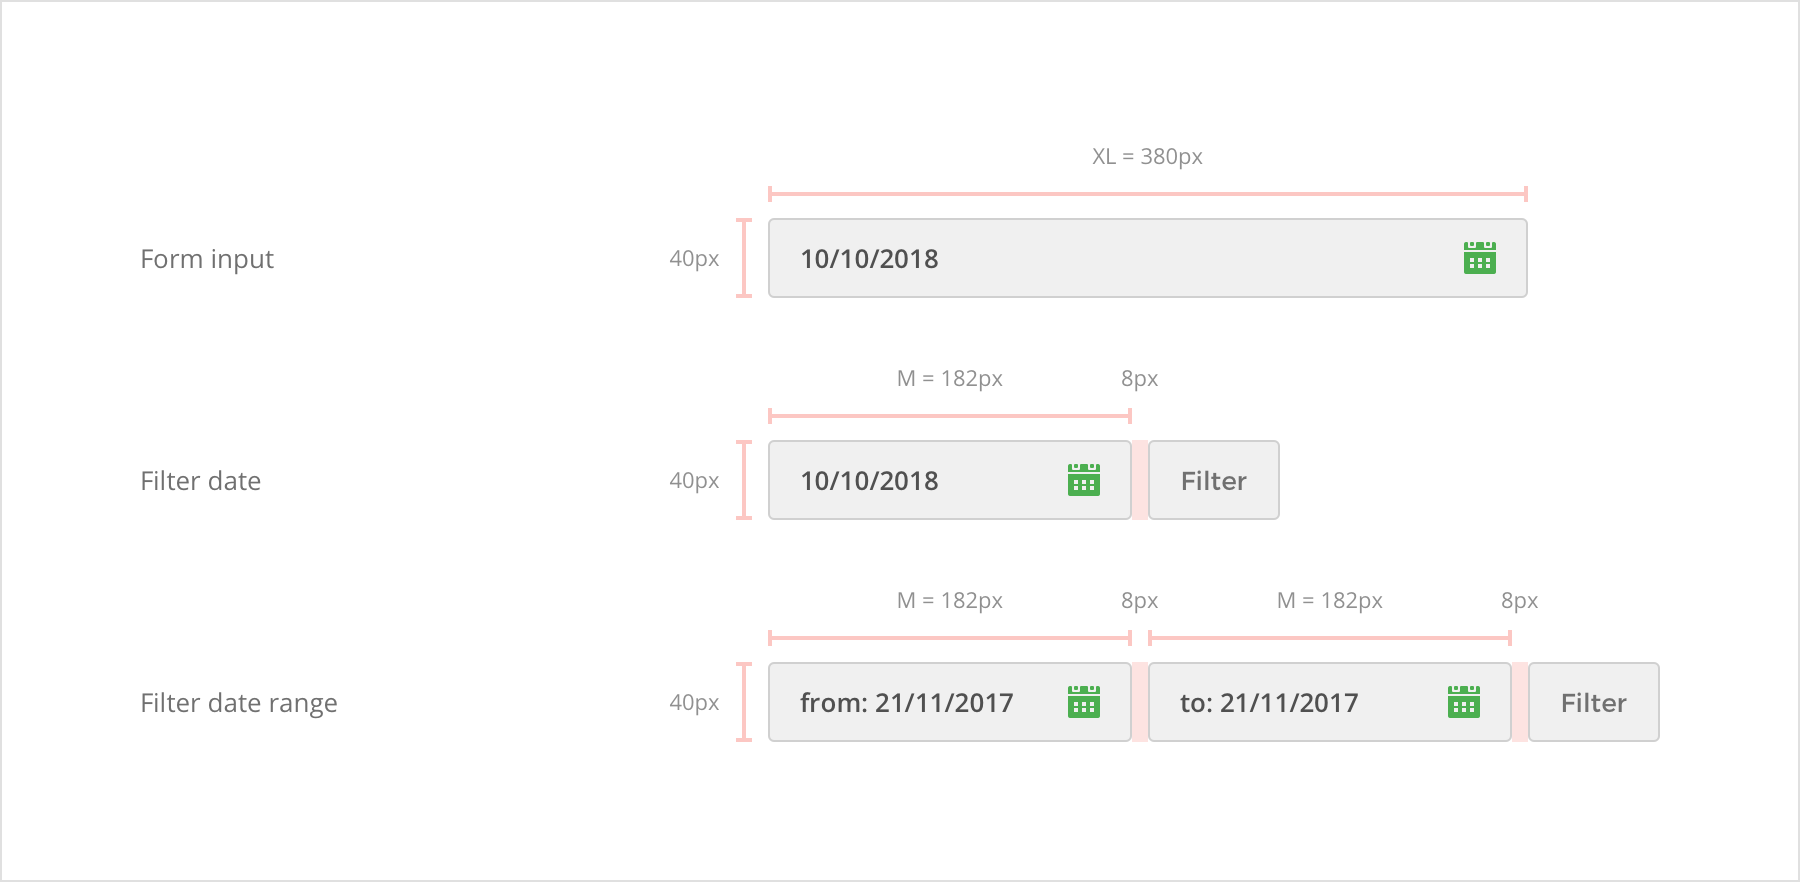
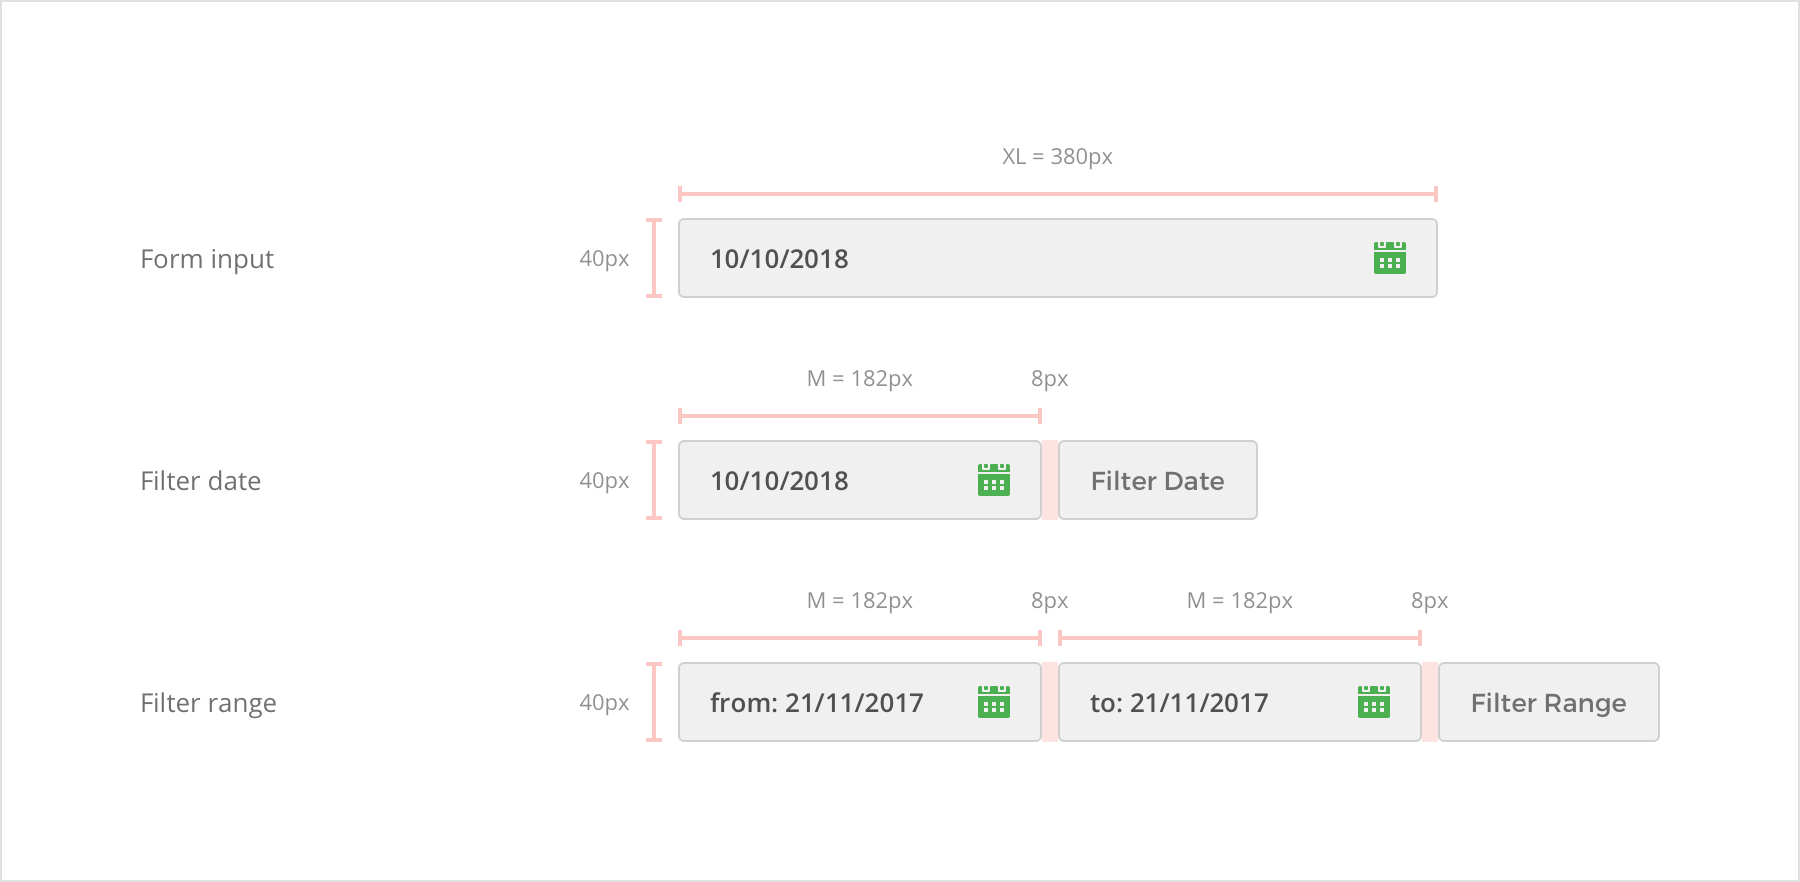
Updates molecules/date-picker.md
Auto commit by GitBook Editor

diff --git a/headers.md b/headers.md
@@ -1,0 +1,12 @@
+# Headers
+
+Because of complexity of the app there is a need for different types of headers: **Header \#1**, **Header \#2**, **Header \#3**, **Header \#4** and **Header \#Checkmark.**
+
+**Note: **All CSS shown is for guiding purposes and it's not absolute.
+
+#### General guidelines {#general-guidelines}
+
+### Header \#1
+
+
+

diff --git a/SUMMARY.md b/SUMMARY.md
@@ -19,6 +19,7 @@
   * [Forms](molecules/forms.md)
   * [Pagination](molecules/pagination.md)
 * [Organisms](organisms.md)
+  * [Headers](headers.md)
   * [Sidebar](sidebar.md)
   * [Tables](tables.md)
   * [Top header](organisms/top-header.md)

diff --git a/molecules/date-picker.md b/molecules/date-picker.md
@@ -25,7 +25,7 @@ width: 380px;
 width: 182px;
 margin-right: 8px;
 
-/* Filter date range */
+/* Filter range */
 width: 182px;
 margin-right: 8px;
 ```
